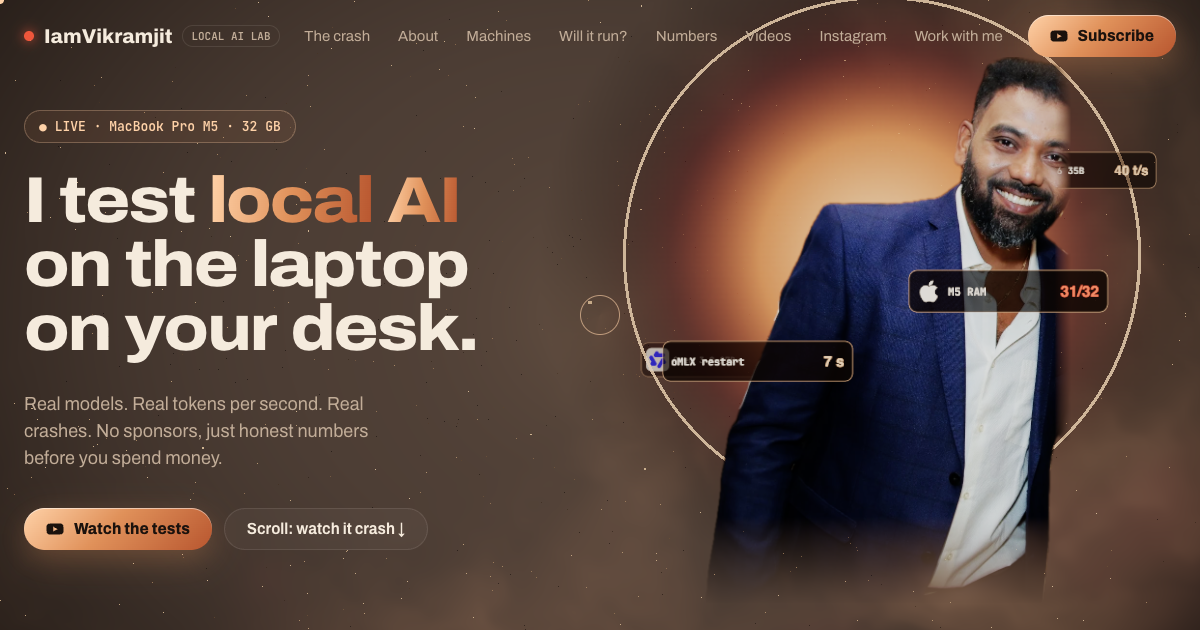
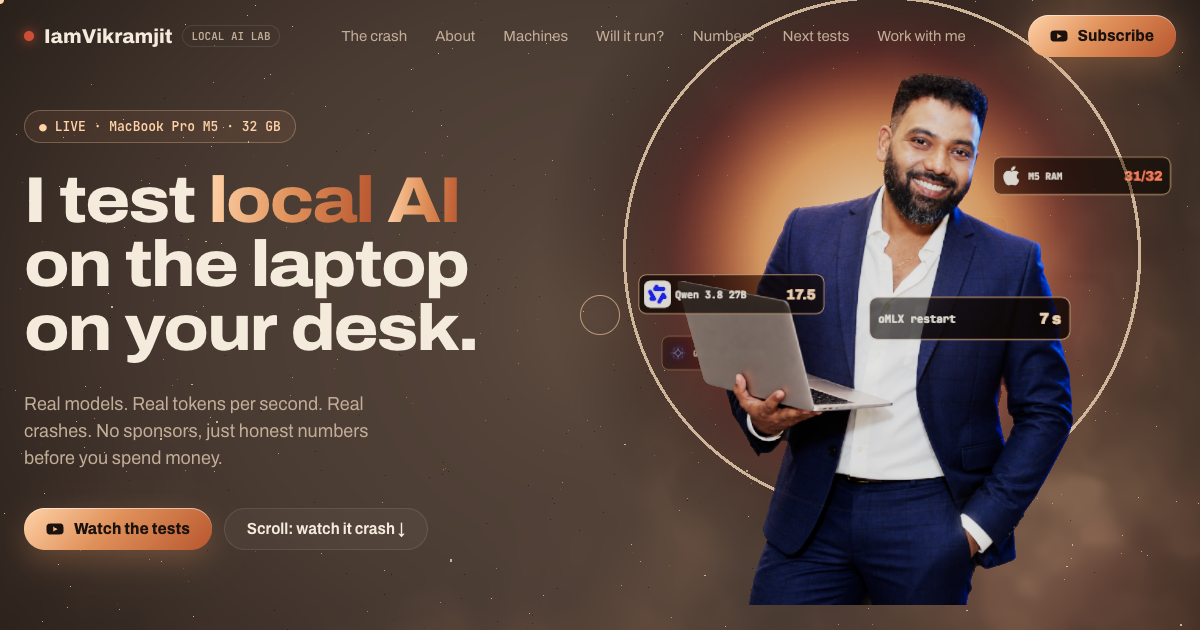
Restore previous hero and about portraits and OG image

Changed region(s): [[0.5242, 0.0905, 0.9867, 0.9651], [0.2467, 0.0302, 0.8325, 0.0905]]

diff --git a/index.html b/index.html
@@ -19,7 +19,7 @@
 { "@context": "https://schema.org", "@graph": [
   { "@type": "WebSite", "@id": "https://vikramjitsarkar.github.io/#site", "url": "https://vikramjitsarkar.github.io/", "name": "IamVikramjit · Local AI Lab", "publisher": { "@id": "https://vikramjitsarkar.github.io/#me" } },
   { "@type": "Person", "@id": "https://vikramjitsarkar.github.io/#me", "name": "Vikramjit Sarkar", "alternateName": "IamVikramjit", "jobTitle": "Developer and tech creator",
-    "url": "https://vikramjitsarkar.github.io/", "image": "https://vikramjitsarkar.github.io/me_suit_standing.png",
+    "url": "https://vikramjitsarkar.github.io/", "image": "https://vikramjitsarkar.github.io/portrait_arms.png",
     "sameAs": ["https://www.youtube.com/@IamVikramjit", "https://www.instagram.com/iam.vikramjit/", "https://x.com/VikramjitSarkar", "https://www.facebook.com/IamVikramjit", "https://github.com/VikramjitSarkar"],
     "knowsAbout": ["Local LLMs", "Apple Silicon", "MLX", "LM Studio", "Qwen", "Gemma", "AI coding agents", "GPU benchmarks"] } ] }
 </script>
@@ -314,7 +314,7 @@
 <section class="sec solid-bg" id="about"><div class="wrap about">
   <div class="portrait" id="portrait">
     <div class="disc"></div>
-    <img src="me_suit_standing.webp" width="760" height="1430" loading="lazy" alt="Vikramjit Sarkar in a navy suit and white shirt, smiling">
+    <img src="portrait_arms.webp" width="1122" height="1402" loading="lazy" alt="Vikramjit in a navy suit, arms crossed, smiling">
     <div class="float" style="left:0;top:22%">tok/s <b>80.5</b></div>
     <div class="float" style="right:0;top:42%">RAM <b>31/32 GB</b></div>
     <div class="float" style="left:4%;bottom:14%">tests <b>10 queued</b></div>
@@ -579,7 +579,7 @@ const halo = new THREE.Mesh(new THREE.PlaneGeometry(6.4, 6.4), new THREE.MeshBas
 halo.position.set(0, .7, -.3); me.add(halo);
 const ringM = new THREE.Mesh(new THREE.TorusGeometry(2.4, .014, 8, 180), new THREE.MeshBasicMaterial({ color: C.hi, transparent: true, opacity: .55 }));
 ringM.position.set(0, .7, -.2); me.add(ringM);
-const photo = new THREE.Mesh(new THREE.PlaneGeometry(1, 1), new THREE.MeshBasicMaterial({ transparent: true, alphaTest: .02 }));
+const photo = new THREE.Mesh(new THREE.PlaneGeometry(1, 1), new THREE.MeshBasicMaterial({ transparent: true, alphaTest: .5 }));
 me.add(photo);
 const ICON = {};
 ['qwen-color', 'gemma-bright', 'apple-light'].forEach(n => { const im = new Image(); im.src = `icons/${n}.svg`; ICON[n] = im; });
@@ -752,7 +752,7 @@ function frame() {
 // ---------------- boot ----------------
 const bootN = document.getElementById('bootn');
 gsap.to({ v: 0 }, { v: 100, duration: 1.2, ease: 'power2.inOut', onUpdate() { bootN.textContent = Math.round(this.targets()[0].v) + '%'; } });
-new THREE.TextureLoader().load('me_suit_smile.webp', tex => {
+new THREE.TextureLoader().load('portrait_laptop.webp', tex => {
   tex.colorSpace = THREE.SRGBColorSpace; photo.material.map = tex; photo.material.needsUpdate = true;
   layout(); drawScreen(0); frame();
   setTimeout(() => {

diff --git a/work-with-me/index.html b/work-with-me/index.html
@@ -31,7 +31,7 @@
       "jobTitle": "Developer and tech creator",
       "description": "Tests local AI models and tools on real laptops and GPUs and publishes the results on YouTube.",
       "url": "https://vikramjitsarkar.github.io/",
-      "image": "https://vikramjitsarkar.github.io/me_suit_standing.png", "email": "mailto:thevikeffect@gmail.com",
+      "image": "https://vikramjitsarkar.github.io/portrait_arms.png", "email": "mailto:thevikeffect@gmail.com",
       "sameAs": ["https://www.youtube.com/@IamVikramjit", "https://www.instagram.com/iam.vikramjit/", "https://x.com/VikramjitSarkar"],
       "knowsAbout": ["Local LLMs", "Apple Silicon", "MLX", "LM Studio", "Qwen", "Gemma", "AI coding agents", "GPU benchmarks"]
     },
@@ -197,7 +197,7 @@
       <p class="lede">I'm Vikramjit, a developer who tests AI models, tools and hardware on real laptops and GPUs. If you build something for people who run AI on their own machines, I'll test it properly and show my audience exactly how it performs.</p>
       <div class="ctas"><a class="btn" href="#contact">Send a brief</a><a class="ghost" href="#formats">See the formats ↓</a></div>
     </div>
-    <figure><img src="../me_suit_standing.webp" alt="Vikramjit Sarkar in a navy suit and white shirt, smiling" width="760" height="1430"></figure>
+    <figure><img src="../portrait_arms.webp" alt="Vikramjit in a navy suit, arms crossed" width="1122" height="1402"></figure>
   </div>
 
   <section id="audience" aria-labelledby="h-audience"><div class="wrap">
